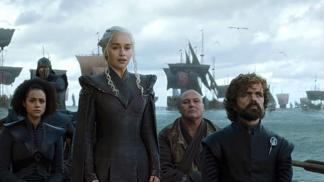
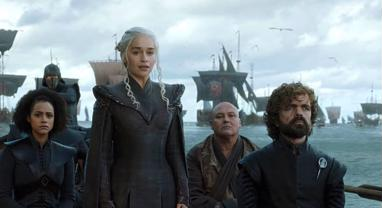
Images cropped initialization

diff --git a/Investor.Web/SampleData.cs b/Investor.Web/SampleData.cs
@@ -208,7 +208,7 @@ namespace Investor.Web
                         CreatedOn = DateTime.Now,
                         ModifiedOn = DateTime.Now,
                         PublishedOn = DateTime.Now,
-                        Image = "577DCD471FA7D92D5B1850A5CB37F02C.jpg",
+                        Image = "2F43526F98C22E1E649666A572C7661C.jpg",
                         IsBlogPost = true,
                         AuthorId = myUsers[0].Id
 
@@ -268,7 +268,7 @@ namespace Investor.Web
                         CreatedOn = DateTime.Now,
                         ModifiedOn = DateTime.Now,
                         PublishedOn = DateTime.Now,
-                        Image = "5F18619AC74A43065C98941313647F07.jpg",
+                        Image = "2F43526F98C22E1E649666A572C7661C.jpg",
                         IsBlogPost = true,
                         AuthorId = myUsers[3].Id
                     },
@@ -296,7 +296,7 @@ namespace Investor.Web
                         CreatedOn = DateTime.Now,
                         ModifiedOn = DateTime.Now,
                         PublishedOn = DateTime.Now,
-                        Image = "5F18619AC74A43065C98941313647F07.jpg"
+                        Image = "2F43526F98C22E1E649666A572C7661C.jpg"
 
                     },
                     new Entity.PostEntity
@@ -323,7 +323,7 @@ namespace Investor.Web
                         CreatedOn = DateTime.Now,
                         ModifiedOn = DateTime.Now,
                         PublishedOn = DateTime.Now,
-                        Image = "8B434E6DF776872697D72E7BBA33CD9E.jpg"
+                        Image = "2F43526F98C22E1E649666A572C7661C.jpg"
                     },
                     new Entity.PostEntity
                     {
@@ -374,7 +374,7 @@ namespace Investor.Web
                         CreatedOn = DateTime.Now,
                         ModifiedOn = DateTime.Now,
                         PublishedOn = DateTime.Now,
-                        Image = "8B434E6DF776872697D72E7BBA33CD9E.jpg"
+                        Image = "2F43526F98C22E1E649666A572C7661C.jpg"
                     },
                     new Entity.PostEntity
                     {
@@ -414,7 +414,7 @@ namespace Investor.Web
                         CreatedOn = DateTime.Now,
                         ModifiedOn = DateTime.Now,
                         PublishedOn = DateTime.Now,
-                        Image = "904E420568BDB9D329F914D562E091AE.jpg"
+                        Image = "2F43526F98C22E1E649666A572C7661C.jpg"
 
                     },
                     new Entity.PostEntity
@@ -470,7 +470,7 @@ namespace Investor.Web
                         CreatedOn = DateTime.Now,
                         ModifiedOn = DateTime.Now,
                         PublishedOn = DateTime.Now,
-                        Image = "96EFCF1E052A4431ACA79958DA503DC1.jpg"
+                        Image = "2F43526F98C22E1E649666A572C7661C.jpg"
 
                     },
                     new Entity.PostEntity
@@ -509,7 +509,7 @@ namespace Investor.Web
                         CreatedOn = DateTime.Now,
                         ModifiedOn = DateTime.Now,
                         PublishedOn = DateTime.Now,
-                        Image = "96EFCF1E052A4431ACA79958DA503DC1.jpg"
+                        Image = "2F43526F98C22E1E649666A572C7661C.jpg"
 
                     },
                     new Entity.PostEntity
@@ -535,7 +535,7 @@ namespace Investor.Web
                         CreatedOn = DateTime.Now,
                         ModifiedOn = DateTime.Now,
                         PublishedOn = DateTime.Now,
-                        Image = "A32DD87FC9ACE674FB62A13564A28C0C.jpg"
+                        Image = "2F43526F98C22E1E649666A572C7661C.jpg"
 
                     },
                     new Entity.PostEntity
@@ -561,7 +561,7 @@ namespace Investor.Web
                         CreatedOn = DateTime.Now,
                         ModifiedOn = DateTime.Now,
                         PublishedOn = DateTime.Now,
-                        Image = "A32DD87FC9ACE674FB62A13564A28C0C.jpg"
+                        Image = "2F43526F98C22E1E649666A572C7661C.jpg"
 
                     },
                     new Entity.PostEntity
@@ -601,7 +601,7 @@ namespace Investor.Web
                         CreatedOn = DateTime.Now,
                         ModifiedOn = DateTime.Now,
                         PublishedOn = DateTime.Now,
-                        Image = "B0CFF4CF27F0BAC7EC145AFE29E29C5A.jpg"
+                        Image = "2F43526F98C22E1E649666A572C7661C.jpg"
 
                     },
                     new Entity.PostEntity
@@ -641,7 +641,7 @@ namespace Investor.Web
                         CreatedOn = DateTime.Now,
                         ModifiedOn = DateTime.Now,
                         PublishedOn = DateTime.Now,
-                        Image = "B0CFF4CF27F0BAC7EC145AFE29E29C5A.jpg"
+                        Image = "2F43526F98C22E1E649666A572C7661C.jpg"
 
                     },
                     new Entity.PostEntity
@@ -668,7 +668,7 @@ namespace Investor.Web
                         CreatedOn = DateTime.Now,
                         ModifiedOn = DateTime.Now,
                         PublishedOn = DateTime.Now,
-                        Image = "B0CFF4CF27F0BAC7EC145AFE29E29C5A.jpg"
+                        Image = "2F43526F98C22E1E649666A572C7661C.jpg"
 
                     },
                     new Entity.PostEntity
@@ -748,7 +748,7 @@ namespace Investor.Web
                         CreatedOn = DateTime.Now,
                         ModifiedOn = DateTime.Now,
                         PublishedOn = DateTime.Now,
-                        Image = "BEB774B63B3FC1C93265D738A0A9C295.jpg"
+                        Image = "2F43526F98C22E1E649666A572C7661C.jpg"
 
                     },
                     new Entity.PostEntity
@@ -775,7 +775,7 @@ namespace Investor.Web
                         CreatedOn = DateTime.Now,
                         ModifiedOn = DateTime.Now,
                         PublishedOn = DateTime.Now,
-                        Image = "577DCD471FA7D92D5B1850A5CB37F02C.jpg"
+                        Image = "2F43526F98C22E1E649666A572C7661C.jpg"
                     },
                      new Entity.PostEntity
                      {
@@ -801,7 +801,7 @@ namespace Investor.Web
                          CreatedOn = DateTime.Now,
                          ModifiedOn = DateTime.Now,
                          PublishedOn = DateTime.Now,
-                         Image = "577DCD471FA7D92D5B1850A5CB37F02C.jpg"
+                         Image = "2F43526F98C22E1E649666A572C7661C.jpg"
                      },
                      new Entity.PostEntity
                      {
@@ -827,7 +827,7 @@ namespace Investor.Web
                          CreatedOn = DateTime.Now,
                          ModifiedOn = DateTime.Now,
                          PublishedOn = DateTime.Now,
-                         Image = "5F18619AC74A43065C98941313647F07.jpg"
+                         Image = "2F43526F98C22E1E649666A572C7661C.jpg"
                      },
                       new Entity.PostEntity
                       {
@@ -853,7 +853,7 @@ namespace Investor.Web
                            CreatedOn = DateTime.Now,
                            ModifiedOn = DateTime.Now,
                            PublishedOn = DateTime.Now,
-                           Image = "5F18619AC74A43065C98941313647F07.jpg"
+                           Image = "2F43526F98C22E1E649666A572C7661C.jpg"
                        },
                        new Entity.PostEntity
                        {
@@ -879,7 +879,7 @@ namespace Investor.Web
                            CreatedOn = DateTime.Now,
                            ModifiedOn = DateTime.Now,
                            PublishedOn = DateTime.Now,
-                           Image = "8B434E6DF776872697D72E7BBA33CD9E.jpg"
+                           Image = "2F43526F98C22E1E649666A572C7661C.jpg"
                        }
                     );
                 context.SaveChanges();

diff --git a/Investor.Service/ImageService.cs b/Investor.Service/ImageService.cs
@@ -23,8 +23,7 @@ namespace Investor.Service
             string imageExtension = Path.GetExtension(image.FileName);
             string originFileName = CreateMD5(image.FileName + image.Length);
             string fullOriginalFileName = originFileName + imageExtension;
-            string imageFolderPath = Path.Combine(_env.WebRootPath, "img", originFileName);
-            
+            string imageFolderPath = Path.Combine(_env.WebRootPath, "img", originFileName);            
 
             if (Directory.Exists(imageFolderPath))
             {
@@ -44,7 +43,7 @@ namespace Investor.Service
             }
 
             ResizeImage(imageFolderPath, fullOriginalFileName, "small-", new Size(104,104));
-            ResizeImage(imageFolderPath, fullOriginalFileName, "medium-", new Size(324, 182));
+            ResizeImage(imageFolderPath, fullOriginalFileName, "medium-", new Size(382, 208));
             ResizeImage(imageFolderPath, fullOriginalFileName, "large-", new Size(751, 423));
 
             return fullOriginalFileName;
